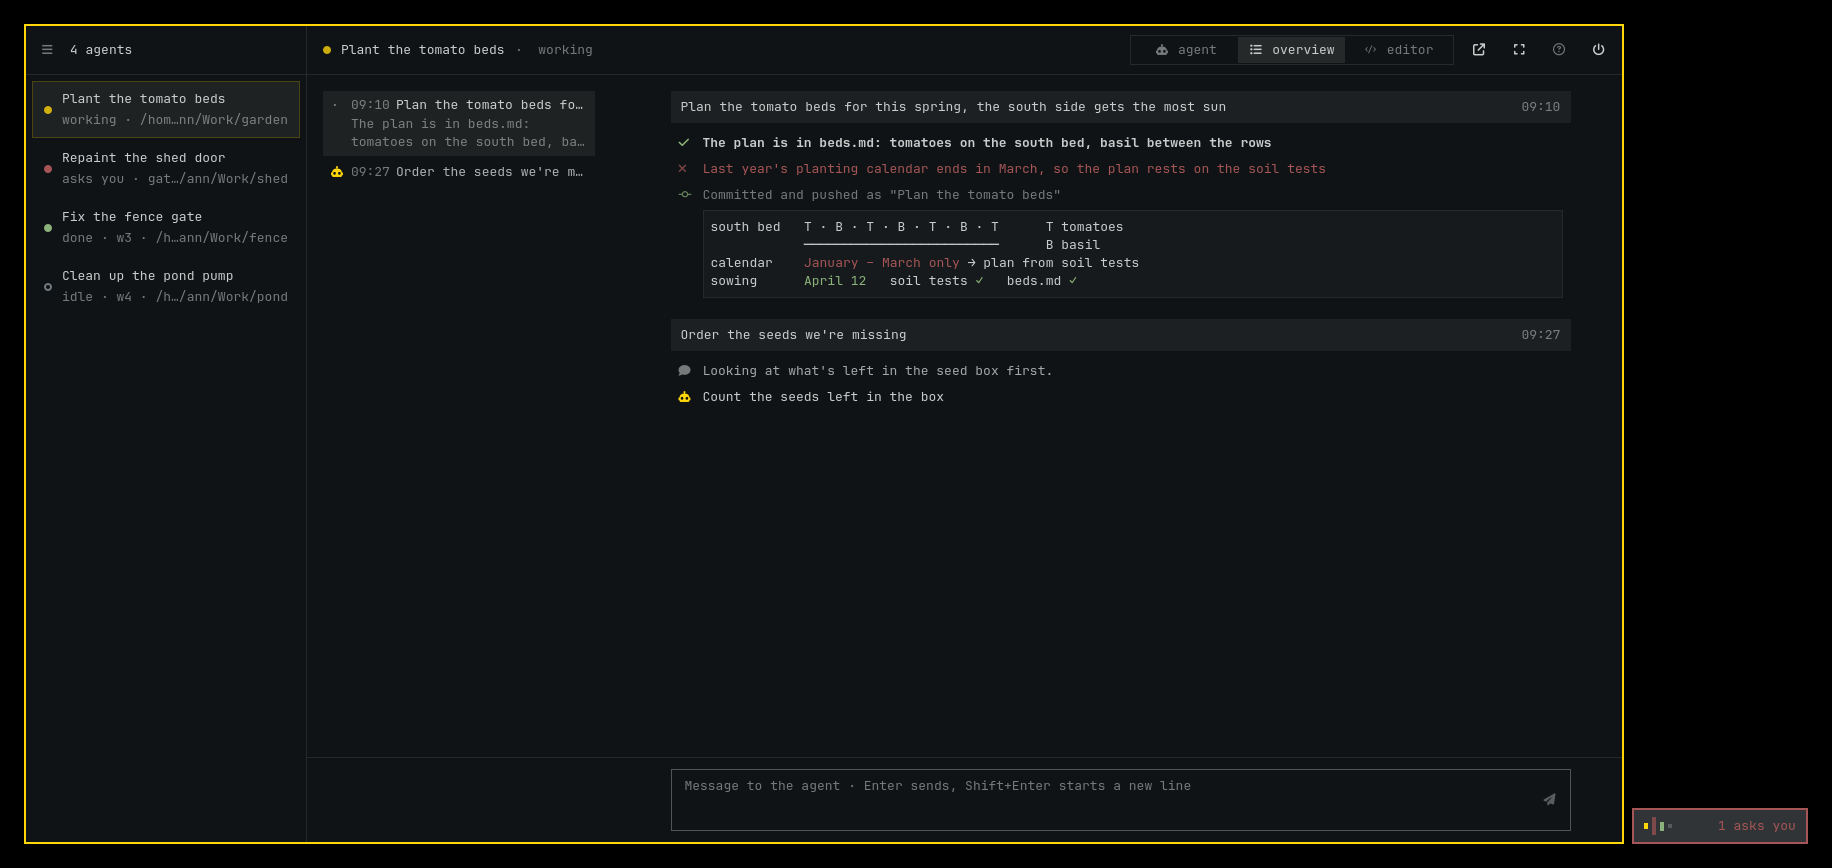
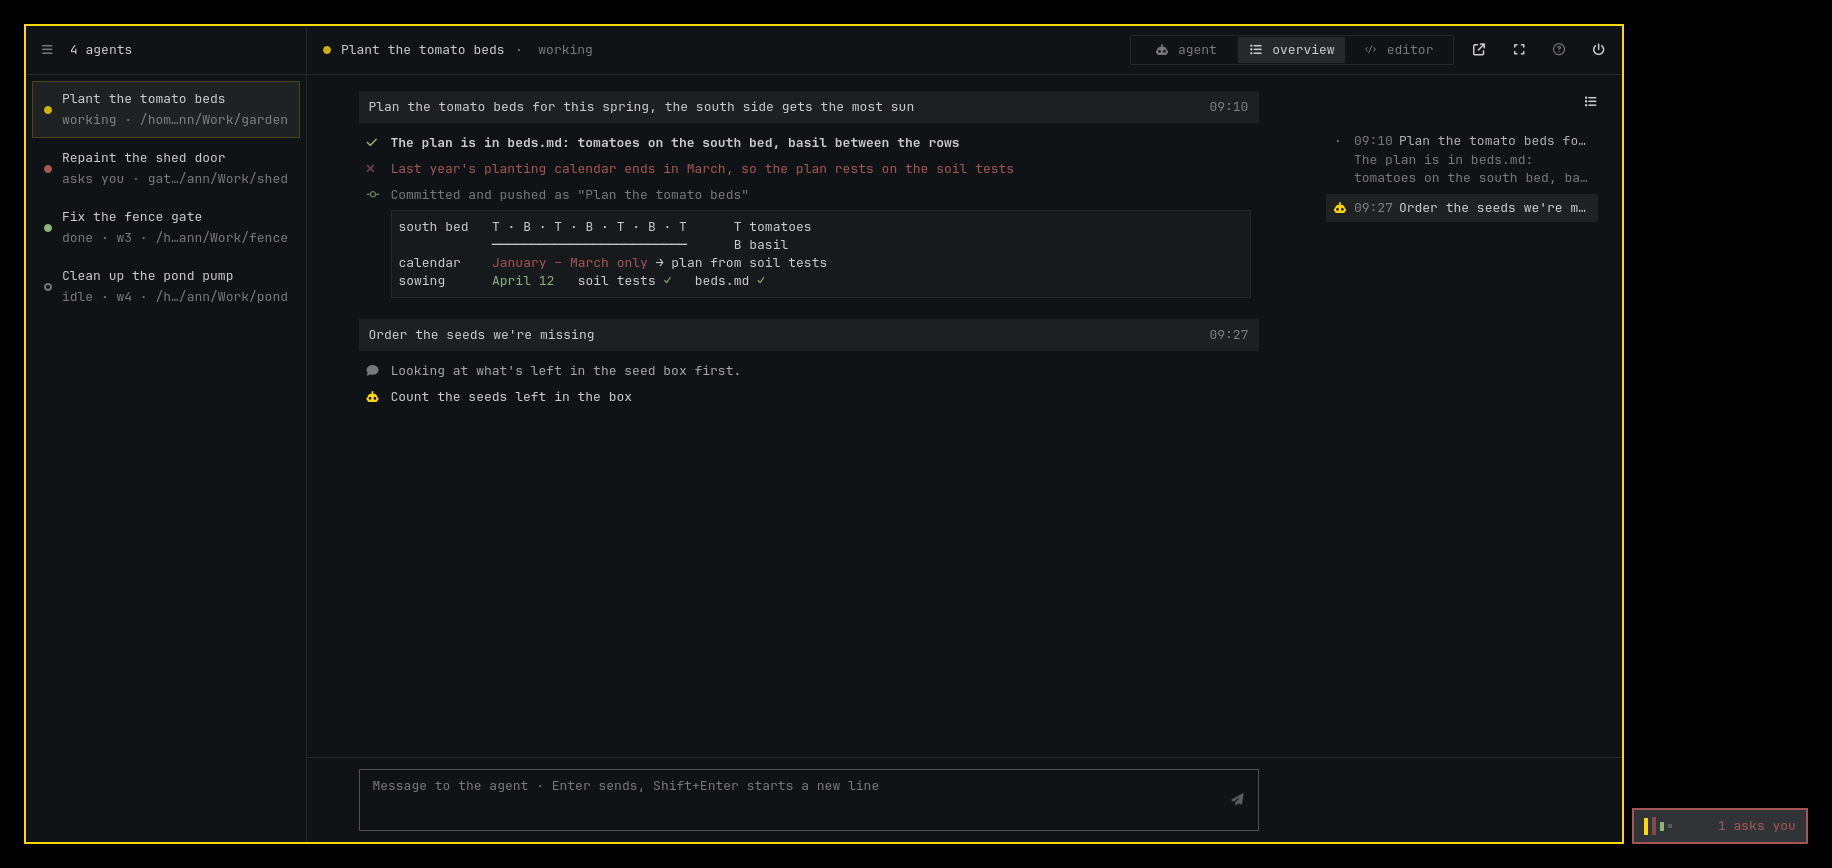
Overview: the outline on the right, hidden by its button; PgUp and PgDn
- The outline sits on the right, the text left of it; a button above it,
  in the same place either way, hides it and shows it again (kept).
- At the end of the conversation, the outline marks the newest turn, not
  the one whose top is in view.
- PgUp and PgDn page the conversation, also from the message field;
  Ctrl+Home and Ctrl+End go to its start and end.

diff --git a/src/Overview.qml b/src/Overview.qml
@@ -24,15 +24,36 @@ Rectangle {
     // The agent asks something: its terminal is where to answer.
     signal answerWanted()
     readonly property int readable: 900
-    // The outline on the left, where the panel leaves room beside the text.
+    // The outline on the right, where the panel leaves room beside the text.
     readonly property int outlineWidth: 280
-    readonly property bool outlined: claude && width >= outlineWidth + 32 + 640
-    // The text's room: right of the outline when it shows, then in its middle.
-    readonly property real textLeft: outlined ? outlineWidth + 32 : 0
-    readonly property real textWidth: Math.min(width - textLeft - 32, readable)
-    readonly property real textX: textLeft + (width - textLeft - textWidth) / 2
+    // Room for it, and whether it shows (its button hides it).
+    readonly property bool outlineFits: claude && width >= outlineWidth + 32 + 640
+    readonly property bool outlined: outlineFits && !surface.outlineHidden
+    // The text's room: left of the outline when it shows, then in its middle.
+    readonly property real textRight: outlined ? outlineWidth + 32 : 0
+    readonly property real textWidth: Math.min(width - textRight - 32, readable)
+    readonly property real textX: (width - textRight - textWidth) / 2
     // The turn at the top of the view, for the outline to mark.
-    readonly property int topTurn: { list.contentY; list.count; return Math.max(0, list.indexAt(list.width / 2, list.contentY + 24)) }
+    // At the end, the newest; else the one at the top.
+    readonly property int topTurn: {
+        list.contentY; list.count; list.contentHeight
+        return list.atYEnd ? list.count - 1 : Math.max(0, list.indexAt(list.width / 2, list.contentY + 24))
+    }
+    // A page up or down (PgUp, PgDn), or to the start or the end.
+    function page(step) {
+        const top = list.originY - list.headerItem.height
+        const bottom = Math.max(top, list.originY + list.contentHeight - list.height)
+        list.follow = false
+        list.contentY = Math.max(top, Math.min(bottom, list.contentY + step * (list.height - 40)))
+        list.follow = list.contentY >= bottom - 1
+    }
+    function toEnd(end) {
+        list.follow = end
+        if (end)
+            list.positionViewAtEnd()
+        else
+            list.positionViewAtBeginning()
+    }
     // How many of a turn's newest points show before the rest is asked for:
     // a long turn's hundreds would take a while to draw, at every change.
     readonly property int newest: 6
@@ -713,10 +734,10 @@ Rectangle {
         id: outline
         objectName: "outline"
         visible: overview.outlined
-        x: 16
+        x: overview.width - width - 16
         width: overview.outlineWidth
         anchors.top: parent.top
-        anchors.topMargin: 16
+        anchors.topMargin: 52
         anchors.bottom: composer.top
         anchors.bottomMargin: 8
         clip: true
@@ -806,6 +827,18 @@ Rectangle {
         }
     }
 
+    // The outline's own button, in the same place whether it shows or not.
+    IconButton {
+        objectName: "outlineButton"
+        visible: overview.outlineFits
+        x: overview.width - width - 16
+        y: 12
+        icon: "\uf03a"
+        tint: overview.outlined ? theme.foreground : overview.dim
+        hint: overview.outlined ? qsTr("Hide the outline") : qsTr("Show the outline")
+        onClicked: surface.outlineHidden = !surface.outlineHidden
+    }
+
     // A message to the agent: Enter sends it, Shift+Enter starts a new line.
     // Always the same height, so nothing above it moves as you type.
     Item {
@@ -871,8 +904,20 @@ Rectangle {
                             }
                         }
                     }
-                    // A picture pasted goes as a file the agent can open.
+                    // A picture pasted goes as a file the agent can open; PgUp and
+                    // PgDn page the conversation, Ctrl+Home and Ctrl+End go to
+                    // its start and end.
                     Keys.onPressed: (event) => {
+                        if (event.key === Qt.Key_PageUp || event.key === Qt.Key_PageDown) {
+                            overview.page(event.key === Qt.Key_PageUp ? -1 : 1)
+                            event.accepted = true
+                            return
+                        }
+                        if ((event.modifiers & Qt.ControlModifier) && (event.key === Qt.Key_Home || event.key === Qt.Key_End)) {
+                            overview.toEnd(event.key === Qt.Key_End)
+                            event.accepted = true
+                            return
+                        }
                         if (event.matches(StandardKey.Paste)) {
                             const path = backend.saveClipboardImage()
                             if (path !== "") {

diff --git a/tests/drover_ui_tests.cpp b/tests/drover_ui_tests.cpp
@@ -1145,13 +1145,13 @@ private slots:
         QMetaObject::invokeMethod(list, "positionViewAtBeginning");
         QTRY_VERIFY(rig.find("summary1_0_0"));
 
-        // The outline on the left: a turn per entry, the one in view marked;
+        // The outline on the right: a turn per entry, the one in view marked;
         // a click goes to a turn.
         auto *outline = rig.find("outline");
         QVERIFY(outline->isVisible());
         QTRY_COMPARE(outline->property("count").toInt(), 22);
-        QVERIFY(outline->mapRectToScene(outline->boundingRect()).right()
-                < rig.find("prompt1")->mapRectToScene(rig.find("prompt1")->boundingRect()).left());
+        QVERIFY(outline->mapRectToScene(outline->boundingRect()).left()
+                > rig.find("prompt1")->mapRectToScene(rig.find("prompt1")->boundingRect()).right());
         QTRY_VERIFY(rig.find("outline0") && rig.find("outline0")->property("current").toBool());
         QMetaObject::invokeMethod(outline, "positionViewAtEnd");
         QTRY_VERIFY(rig.find("outline12"));
@@ -1159,8 +1159,32 @@ private slots:
         QTest::qWait(50);
         QTest::mouseClick(rig.window, Qt::LeftButton, {}, outlined->mapToScene(QPointF(60, 8)).toPoint());
         QTRY_VERIFY(rig.find("prompt13") && outlined->property("current").toBool());
-        QMetaObject::invokeMethod(list, "positionViewAtBeginning");
-        QTRY_VERIFY(rig.find("summary1_0_0"));
+        // At the end, the newest is marked.
+        QMetaObject::invokeMethod(list, "positionViewAtEnd");
+        QTRY_VERIFY(list->property("atYEnd").toBool());
+        QMetaObject::invokeMethod(outline, "positionViewAtEnd");
+        QTRY_VERIFY(rig.find("outline21") && rig.find("outline21")->property("current").toBool());
+        // PgUp and PgDn page it from the message field; Ctrl+Home goes to the start.
+        rig.find("overviewInput")->forceActiveFocus();
+        const qreal end = list->property("contentY").toReal();
+        QTest::keyClick(rig.window, Qt::Key_PageUp);
+        QTRY_VERIFY(list->property("contentY").toReal() < end - 100);
+        QTest::keyClick(rig.window, Qt::Key_PageDown);
+        QTRY_VERIFY(list->property("atYEnd").toBool());
+        QTest::keyClick(rig.window, Qt::Key_Home, Qt::ControlModifier);
+        QTRY_VERIFY(rig.find("prompt1"));
+        QTRY_VERIFY(list->property("atYBeginning").toBool());
+        // Its button hides it, from the same place, and the text takes the room.
+        auto *outlineButton = rig.find("outlineButton");
+        const QPointF buttonAt = outlineButton->mapToScene(QPointF(0, 0));
+        const qreal textAt = rig.find("prompt1")->mapToScene(QPointF(0, 0)).x();
+        QTest::mouseClick(rig.window, Qt::LeftButton, {}, outlineButton->mapToScene(QPointF(10, 10)).toPoint());
+        QTRY_VERIFY(!outline->isVisible());
+        QVERIFY(rig.surface->outlineHidden());
+        QTRY_VERIFY(rig.find("prompt1")->mapToScene(QPointF(0, 0)).x() > textAt);
+        QCOMPARE(outlineButton->mapToScene(QPointF(0, 0)), buttonAt);
+        QTest::mouseClick(rig.window, Qt::LeftButton, {}, outlineButton->mapToScene(QPointF(10, 10)).toPoint());
+        QTRY_VERIFY(outline->isVisible());
 
         // A click on the summary opens the points it sums up, under it.
         auto *point = rig.find("summary1_0_0");

diff --git a/src/surface.cpp b/src/surface.cpp
@@ -37,6 +37,8 @@ Surface::Surface(const QString &stateFile, QObject *parent)
                 m_listHidden = parts[1] == "hidden";
             else if (parts[0] == "view")
                 m_overviewShown = parts[1] == "overview";
+            else if (parts[0] == "outline")
+                m_outlineHidden = parts[1] == "hidden";
         }
     }
 }
@@ -65,15 +67,24 @@ void Surface::setOverviewShown(bool shown) {
     emit panelStateChanged();
 }
 
+void Surface::setOutlineHidden(bool hidden) {
+    if (hidden == m_outlineHidden)
+        return;
+    m_outlineHidden = hidden;
+    savePanelState();
+    emit panelStateChanged();
+}
+
 void Surface::savePanelState() {
     QDir().mkpath(QFileInfo(m_panelFile).absolutePath());
     QSaveFile file(m_panelFile);
     if (!file.open(QIODevice::WriteOnly))
         return;
-    file.write(QStringLiteral("fullscreen %1\nlist %2\nview %3\n")
+    file.write(QStringLiteral("fullscreen %1\nlist %2\nview %3\noutline %4\n")
                    .arg(m_fullscreen ? 1 : 0)
                    .arg(m_listHidden ? "hidden" : "shown")
                    .arg(m_overviewShown ? "overview" : "agent")
+                   .arg(m_outlineHidden ? "hidden" : "shown")
                    .toUtf8());
     file.commit();
 }

diff --git a/src/surface.h b/src/surface.h
@@ -28,6 +28,8 @@ class Surface : public QObject {
     // The panel shows the agent's conversation in points rather than its
     // terminal (Ctrl+Alt+B).
     Q_PROPERTY(bool overviewShown READ overviewShown WRITE setOverviewShown NOTIFY panelStateChanged)
+    // The outline beside the conversation in points, hidden by its button.
+    Q_PROPERTY(bool outlineHidden READ outlineHidden WRITE setOutlineHidden NOTIFY panelStateChanged)
 
 public:
     explicit Surface(const QString &stateFile = {}, QObject *parent = nullptr);
@@ -45,6 +47,8 @@ public:
     void setListHidden(bool hidden);
     bool overviewShown() const { return m_overviewShown; }
     void setOverviewShown(bool shown);
+    bool outlineHidden() const { return m_outlineHidden; }
+    void setOutlineHidden(bool hidden);
 
     Q_INVOKABLE void setExpanded(bool expanded);
     // The stage wants the keyboard (the user clicked it, or pressed the
@@ -73,6 +77,7 @@ private:
     bool m_fullscreen = false;
     bool m_listHidden = false;
     bool m_overviewShown = false;
+    bool m_outlineHidden = false;
     bool m_expanded = false;
     bool m_stageFocus = false;
     QWindow *m_window = nullptr;

diff --git a/README.md b/README.md
@@ -157,9 +157,11 @@ attached beneath. It is read from the transcript in `~/.claude/projects`, only
 its end at first, then what is appended, and only while it shows; drover
 remembers the view, and `Alt+E` comes back to it from the editor.
 
-On the left, where the panel has room, an outline lists the turns like a
+On the right, where the panel has room, an outline lists the turns like a
 document's: each one's time, prompt and headline, the one in view marked and
-the one at work with a bobbing robot; a click goes to a turn. When Claude
+the one at work with a bobbing robot; a click goes to a turn, and its button
+hides it. `PgUp` and `PgDn` page the conversation, also from the message
+field; `Ctrl+Home` and `Ctrl+End` go to its start and end. When Claude
 parks a conversation as a job in the background, the overview follows it to
 its new transcript.
 
